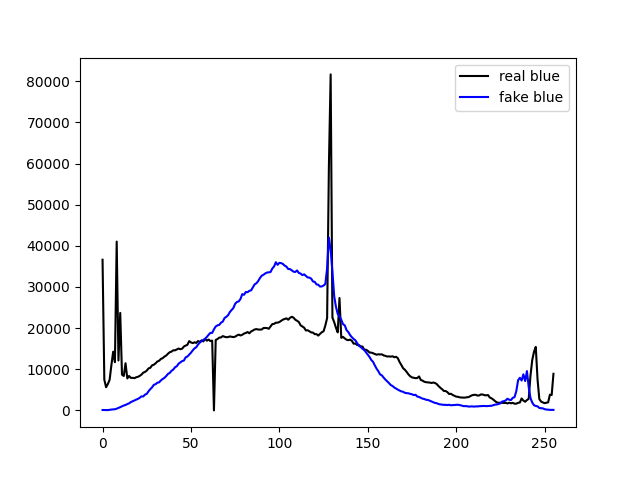
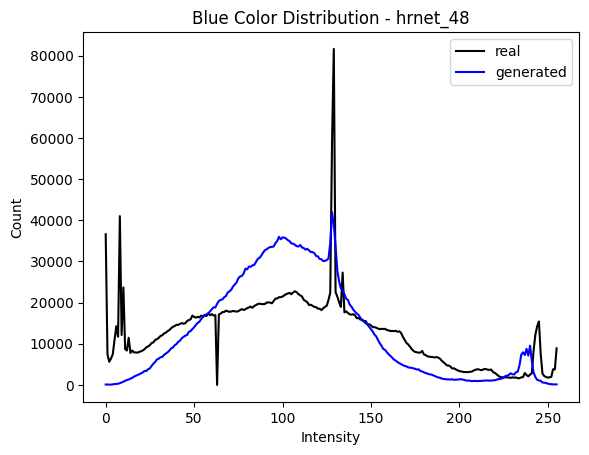
Modify report with information noted from poster presentation

Changed region(s): [[0.0, 0.0, 0.9779, 0.9846], [0.3056, 0.0308, 0.6418, 0.0615], [0.9168, 0.8923, 0.9474, 0.9538]]

diff --git a/intensity_and_rgb.py b/intensity_and_rgb.py
@@ -1,75 +1,104 @@
-import numpy as np
+from eval_batch import EXP_MODEL_PAIRS
+from enum import Enum, IntEnum
 from PIL import Image
-
-import os
-import sys
-import torchvision.transforms as transforms
-import os
-import numpy as np
+from scipy.stats import kstest
+from os import listdir, path
 from tqdm import tqdm
-
-
-
+import numpy as np
 import matplotlib.pyplot as plt
 
+class Colors(IntEnum):
+    RED     = 0
+    GREEN   = 1
+    BLUE    = 2
 
-modelName = sys.argv[1]
+    __str__ = Enum.__str__
 
-path = 'results/{parent}/test_latest/images'.format(parent=modelName)
-files = os.listdir(path)
-real = []
-fake = []
-orig = []
-r_real = np.zeros((256,))
-g_real = np.zeros((256,))
-b_real = np.zeros((256,))
+def load_rgb_arrays(path: str):
+    files = listdir(path)
+    real = []
+    fake = []
+    orig = []
+    r_real = np.zeros((256,))
+    g_real = np.zeros((256,))
+    b_real = np.zeros((256,))
+    r_fake = np.zeros((256,))
+    g_fake = np.zeros((256,))
+    b_fake = np.zeros((256,))
 
-r_fake = np.zeros((256,))
-g_fake = np.zeros((256,))
-b_fake = np.zeros((256,))
-for file in files:
-    if file.find("real_B")>=0:
-        
-        # transform = transforms.PILToTensor()
-        # Convert the PIL image to Torch tensor
-        im = Image.open('{path}/{file}'.format(path=path, file = file)).convert('RGB')
-        for x in range(im.width):
-            for y in range(im.height):
-                r_real[im.getpixel((x,y))[0]]+=1
-                g_real[im.getpixel((x,y))[1]]+=1
-                b_real[im.getpixel((x,y))[2]]+=1
-  
-                    
-        real.append(np.array(im.convert('L')).mean())
-    elif file.find("fake_B")>=0:
-        im = Image.open('{path}/{file}'.format(path=path, file = file)).convert('RGB')
-        for x in range(im.width):
-            for y in range(im.height):
-                r_fake[im.getpixel((x,y))[0]]+=1
-                g_fake[im.getpixel((x,y))[1]]+=1
-                b_fake[im.getpixel((x,y))[2]]+=1
-        fake.append(np.array(im.convert('L')).mean())
-    else:
-        im = Image.open('{path}/{file}'.format(path=path, file = file)).convert('L')
-        orig.append(np.array(im.convert('L')))
-print("REAL AVERAGE INTENSITY: ", sum(real)/len(real))
-print("FAKE AVERAGE INTENSITY: ", sum(fake)/len(fake))
-x = np.arange(0,256,1)
+    for file in files:
+        if file.find("real_B")>=0:
+            # Convert the PIL image to Torch tensor
+            im = Image.open('{path}/{file}'.format(path=path, file = file)).convert('RGB')
+            for x in range(im.width):
+                for y in range(im.height):
+                    r_real[im.getpixel((x,y))[0]]+=1
+                    g_real[im.getpixel((x,y))[1]]+=1
+                    b_real[im.getpixel((x,y))[2]]+=1
+            real.append(np.array(im.convert('L')).mean())
+        elif file.find("fake_B")>=0:
+            im = Image.open('{path}/{file}'.format(path=path, file = file)).convert('RGB')
+            for x in range(im.width):
+                for y in range(im.height):
+                    r_fake[im.getpixel((x,y))[0]]+=1
+                    g_fake[im.getpixel((x,y))[1]]+=1
+                    b_fake[im.getpixel((x,y))[2]]+=1
+            fake.append(np.array(im.convert('L')).mean())
+        else:
+            im = Image.open('{path}/{file}'.format(path=path, file = file)).convert('L')
+            orig.append(np.array(im.convert('L')))
+    return (r_real, g_real, b_real), (r_fake, g_fake, b_fake)
 
-fig, ax = plt.subplots()
-line1, = ax.plot(x, r_real, color="black", label='real red')
-line2, = ax.plot(x, r_fake, color="red", label='fake red')
-ax.legend(handles=[line1, line2])
-fig.savefig('red_{model}.png'.format(model = modelName))
+def plot_rgb_values(r_real, g_real, b_real,
+                    r_fake, g_fake, b_fake,
+                    experiment_name, model_name):
+    x = np.arange(0, 256, 1)
 
-fig, ax = plt.subplots()
-line1, = ax.plot(x, b_real, color="black", label='real blue')
-line2, = ax.plot(x, b_fake, color="blue", label='fake blue')
-ax.legend(handles=[line1, line2])
-fig.savefig('blue_{model}.png'.format(model = modelName))
+    fig, ax = plt.subplots()
+    line1, = ax.plot(x, r_real, color="black", label='real')
+    line2, = ax.plot(x, r_fake, color="red", label='generated')
+    ax.legend(handles=[line1, line2])
+    plt.title(f"Red Color Distribution - {model_name}")
+    plt.xlabel("Intensity")
+    plt.ylabel("Count")
+    fig.savefig(f'red_{experiment_name}.png')
 
-fig, ax = plt.subplots()
-line1, = ax.plot(x, g_real, color="black", label='real green')
-line2, = ax.plot(x, g_fake, color="green", label='fake green')
-ax.legend(handles=[line1, line2])
-fig.savefig('green_{model}.png'.format(model = modelName))
+    fig, ax = plt.subplots()
+    line1, = ax.plot(x, b_real, color="black", label='real')
+    line2, = ax.plot(x, b_fake, color="blue", label='generated')
+    ax.legend(handles=[line1, line2])
+    plt.title(f"Blue Color Distribution - {model_name}")
+    plt.xlabel("Intensity")
+    plt.ylabel("Count")
+    fig.savefig(f'blue_{experiment_name}.png', bbox_inches='tight')
+
+    fig, ax = plt.subplots()
+    line1, = ax.plot(x, g_real, color="black", label='real')
+    line2, = ax.plot(x, g_fake, color="green", label='generated')
+    ax.legend(handles=[line1, line2])
+    plt.title(f"Green Color Distribution - {model_name}")
+    plt.xlabel("Intensity")
+    plt.ylabel("Count")
+    fig.savefig(f'green_{experiment_name}.png', bbox_inches='tight')
+
+def ks_test(sampled, ground_truth):
+    ks_res = kstest(sampled, ground_truth)
+    return f"Test statistic is {ks_res.statistic} with p-value {ks_res.pvalue}"
+
+if __name__ == "__main__":
+    for experiment, model in tqdm(EXP_MODEL_PAIRS):
+        print(f"===== Processing model {model} =====")
+        path = f'results/{experiment}/test_latest/images'
+
+        print("Computing RGB values...")
+        reals, fakes = load_rgb_arrays(path)
+
+        print("Plotting values...")
+        plot_rgb_values(reals[Colors.RED], reals[Colors.GREEN], reals[Colors.BLUE],
+                        fakes[Colors.RED], fakes[Colors.GREEN], fakes[Colors.BLUE],
+                        experiment, model)
+
+        print("KS Test results:")
+        for channel in Colors:
+            ks_res = ks_test(fakes[channel], reals[channel])
+            print(f"{channel}: {ks_res}")

diff --git a/loss_over_time.py b/loss_over_time.py
@@ -1,57 +1,57 @@
-import sys
-import os
+from eval_batch import EXP_MODEL_PAIRS
+from tqdm import tqdm
 import numpy as np
 import re
-
-
 import matplotlib.pyplot as plt
 
+if __name__ == "__main__":
+    for experiment, model in tqdm(EXP_MODEL_PAIRS):
+        path = f'checkpoints/{experiment}/loss_log.txt'
+        epoch   = 0
+        g_gan   = []
+        g_l1    = []
+        d_real  = []
+        d_fake  = []
+        with open(path) as fp:
+            tmp_g_gan = []
+            tmp_g_l1 = []
+            tmp_d_real = []
+            tmp_d_fake = []
+            for line in fp:
+                try:
+                    epoch_curr = int(re.search('epoch: (.+?),', line).group(1))
+                    tmp_g_gan.append(float(re.search('G_GAN: (.+?) G_L1:', line).group(1)))
+                    tmp_g_l1.append(float(re.search('G_L1: (.+?) D_real:', line).group(1)))
+                    tmp_d_real.append(float(re.search('D_real: (.+?) D_fake:', line).group(1)))
+                    tmp_d_fake.append(float(re.search('D_fake: (.+?)\n', line).group(1)))
+                    if epoch_curr != epoch:
+                        epoch = epoch_curr
+                        g_gan.append(sum(tmp_g_gan)/len(tmp_g_gan))
+                        tmp_g_gan = []
+                        g_l1.append(sum(tmp_g_l1)/len(tmp_g_l1))
+                        tmp_g_l1 = []
+                        d_real.append(sum(tmp_d_real)/len(tmp_d_real))
+                        tmp_d_real = []
+                        d_fake.append(sum(tmp_d_fake)/len(tmp_d_fake))
+                        tmp_d_fake = []
+                except AttributeError:
+                    continue
+        x = np.arange(0, 200, 1)
 
-modelName = sys.argv[1]
+        fig, ax = plt.subplots()
+        line1, = ax.plot(x, g_gan, color="black", label='GAN')
+        line2, = ax.plot(x, g_l1, color="blue", label='L1')
+        ax.legend(handles=[line1, line2])
+        plt.title(f"Generator Losses - {model}")
+        plt.xlabel("Epoch")
+        plt.ylabel("Value")
+        fig.savefig(f'G_{experiment}.png')
 
-path = 'checkpoints/{parent}/loss_log.txt'.format(parent=modelName)
-epoch = 0
-g_gan = []
-g_l1 = []
-d_real = []
-d_fake = []
-with open(path) as fp:
-    tmp_g_gan = []
-    tmp_g_l1 = []
-    tmp_d_real = []
-    tmp_d_fake = []
-    for line in fp:
-
-        try:
-            epoch_curr = int(re.search('epoch: (.+?),', line).group(1))
-            tmp_g_gan.append(float(re.search('G_GAN: (.+?) G_L1:', line).group(1)))
-            tmp_g_l1.append(float(re.search('G_L1: (.+?) D_real:', line).group(1)))
-            tmp_d_real.append(float(re.search('D_real: (.+?) D_fake:', line).group(1)))
-            tmp_d_fake.append(float(re.search('D_fake: (.+?)\n', line).group(1)))
-            if epoch_curr != epoch:
-                epoch = epoch_curr
-                g_gan.append(sum(tmp_g_gan)/len(tmp_g_gan))
-                print(tmp_g_gan)
-                tmp_g_gan = []
-                g_l1.append(sum(tmp_g_l1)/len(tmp_g_l1))
-                tmp_g_l1 = []
-                d_real.append(sum(tmp_d_real)/len(tmp_d_real))
-                tmp_d_real = []
-                d_fake.append(sum(tmp_d_fake)/len(tmp_d_fake))
-                tmp_d_fake = []
-
-        except AttributeError:
-            continue
-x = np.arange(0,200,1)
-
-fig, ax = plt.subplots()
-line1, = ax.plot(x, g_gan, color="black", label='G_GAN')
-line2, = ax.plot(x, g_l1, color="blue", label='G_L1')
-ax.legend(handles=[line1, line2])
-fig.savefig('GAN_{model}.png'.format(model = modelName))
-
-fig, ax = plt.subplots()
-line1, = ax.plot(x, d_real, color="black", label='D_REAL')
-line2, = ax.plot(x, d_fake, color="blue", label='D_FAKE')
-ax.legend(handles=[line1, line2])
-fig.savefig('D_{model}.png'.format(model = modelName))
+        fig, ax = plt.subplots()
+        line1, = ax.plot(x, d_real, color="black", label='D_REAL')
+        line2, = ax.plot(x, d_fake, color="blue", label='D_FAKE')
+        ax.legend(handles=[line1, line2])
+        plt.title(f"Discriminator Losses - {model}")
+        plt.xlabel("Epoch")
+        plt.ylabel("Value")
+        fig.savefig(f'D_{experiment}.png')

diff --git a/README.md b/README.md
@@ -1,4 +1,4 @@
-# Reproducibility Project Blog
+# Performing Brain Transplants on Pix2Pix
 ## Group Members
 - Nikolay Blagoev (4998901 - <N.Blagoev@student.tudelft.nl>)
 - William Narchi  (5046122 - <w.narchi-1@student.tudelft.nl>)
@@ -8,9 +8,9 @@ Image-to-Image Translation with Conditional Adversarial Networks.<br>
 [Phillip Isola](https://people.eecs.berkeley.edu/~isola), [Jun-Yan Zhu](https://www.cs.cmu.edu/~junyanz/), [Tinghui Zhou](https://people.eecs.berkeley.edu/~tinghuiz), [Alexei A. Efros](https://people.eecs.berkeley.edu/~efros). In CVPR 2017. [[Bibtex]](https://www.cs.cmu.edu/~junyanz/projects/pix2pix/pix2pix.bib)
 
 ## Introduction
-Conditional adversarial networks are a popular architecture choice for generative models. The Pix2Pix paper examined by this reproducibility project presents a general **CGAN (Conditional General Adversarial Network)** that can be adapted for *any* image-to-image translation task. Put simply, given labelled samples in two related domains $A$ and $B$, a mapping from $A$ to $B$ (or vice versa) can be learned by the network [1].
+Conditional adversarial networks are a popular architecture choice for generative models. The Pix2Pix paper examined by this reproducibility project presents a general **CGAN (Conditional Generative Adversarial Network)** that can be adapted for *any* image-to-image translation task. Put simply, given labelled samples in two related domains $A$ and $B$, a mapping from $A$ to $B$ (or vice versa) can be learned by the network [1].
 
-The architecture of the network consists of a generator network and a discriminator network working against each other [1]. The generator learns to generate plausible fake images in the target range that correspond to the source domain and the discriminator learns to differentiate real and fake (generator-created) images.
+The architecture of the network consists of a generator network and a discriminator network working against each other [1]. The generator learns to generate plausible fake images in the target range that correspond to the source domain and the discriminator learns to differentiate real and fake (generator-created) images. Being a CGAN, the generator is provided as input both a sample from the domain and its corresponding class, hence it attempts to learn the distribution of the data conditioned on the corresponding label [11].
 
 The Pix2Pix paper utilises a modified variant of the [UNet](https://arxiv.org/abs/1505.04597) architecture as the generator [1], [2]. However, in principle, any network that performs [semantic segmentation](https://www.cs.toronto.edu/~tingwuwang/semantic_segmentation.pdf) can be used as the generator in the CGAN architecture. This project aims to compare the viability of popular semantic segmentation networks as replacements for the stock UNet presented in the original paper.
 
@@ -40,7 +40,7 @@ Following the architecture described in the paper (convolution → batch normali
 This happened regardless of the exact model used as the generator. If the last ReLU activation layer was removed, patchy artifacts were produced (even at 200 epochs):
 
 <br>
-<img src='imgs/artifcats.png' width=384>
+<img src='imgs/artifacts.png' width=384>
 <br>
 
 The original implementation adds a Tanh activation function at the outermost upscaling layer:
@@ -68,6 +68,7 @@ All generators were able to recreate some semblance of structure in the fake (or
 Visually, PSPNet gave the worst results; the final result is blurry and black patches can be seen in the same spot on all images. The second worst was DeepLabV3+; a more clear structure can be seen in it, however some artifacts exist (bottom row is best seen) and the images are quite blurry. HRNet gave decent results, however they still look quite blurry. Surprisingly, the LinkNet produced a very clear and coherent image for the first input. The best performing were the two UNets, followed closely by LinkNet and the 9-block ResNet, though for the second row some artifacts can be seen (quite noticeable with UNet++ and 9-block Resnet, in addition to some with UNet at the bottom part of the building).
 
 ## Quantitative Evaluation
+
 ### FID Scores
 The **Frechet Inception Distance (FID)** is used to evaluate the quality of generated images. It compares the excitation of a feature extractor of the ground truth and generated images to produce a single scalar score, where lower means better. [5] Since the release of the paper in 2017, it has become a de facto standard for evaluating the performance of generative networks [4]. 
 
@@ -77,15 +78,46 @@ For the feature extractor, we chose the InceptionV3 model [6]. A batch of 40 pre
 |-------------------|---------|
 | UNet (default)    | 218.483 |
 | ResNet (9 blocks) | 226.530 |
+| LinkNet           | 232.488 |
 | UNet++            | 244.796 |
+| HRNet             | 297.469 |
 | DeepLabV3+        | 318.598 |
 | PSPNet            | 416.964 |
-| LinkNet           | 232.488 |
-| HRNet             | 297.469 |
 
 PSPNet performed the worst (as evident by the results). Surprisingly, LinkNet presented a better result than UNet++. The stock UNet variant used in the original paper performed the best, but we attribute this to hyperparameter tuning, which we were not able to perform due to limited training time.
 
 ### Performance Over Epochs
+#### Losses
+Provided are the values of the loss terms for both the generator and discriminator plotted against training epochs for all tested generators. All generators exhibit a decrease in L1 loss over time. As for GAN loss, it remains fairly stationary for the more performant generators, while increasing steadily for the worse performing ones. Similarly, the discriminator's losses seem to fluctuate with the more performant generators whereas it remains fairly stationary for the worse performing ones, demonstrating the performant generators' abilities to fool the discriminator more consistently than the worse performing ones.
+
+##### UNet
+<img src='imgs/G_pix2pixunet256.png' width=384>
+<img src='imgs/D_pix2pixunet256.png' width=384>
+
+##### ResNet
+<img src='imgs/G_pix2pixresnet9blocks.png' width=384>
+<img src='imgs/D_pix2pixresnet9blocks.png' width=384>
+
+##### UNet++
+<img src='imgs/G_pix2pixunetppnew.png' width=384>
+<img src='imgs/D_pix2pixunetppnew.png' width=384>
+
+##### DeepLabV3+
+<img src='imgs/G_pix2pixdeeplabv3plus.png' width=384>
+<img src='imgs/D_pix2pixdeeplabv3plus.png' width=384>
+
+##### PSPNet
+<img src='imgs/G_pix2pixpspnetnew.png' width=384>
+<img src='imgs/D_pix2pixpspnetnew.png' width=384>
+
+##### LinkNet
+<img src='imgs/G_pix2pixlinknet.png' width=384>
+<img src='imgs/D_pix2pixlinknet.png' width=384>
+
+##### HRNet
+<img src='imgs/G_pix2pixhrnet48.png' width=384>
+<img src='imgs/D_pix2pixhrnet48.png' width=384>
+
 #### FID Scores
 In order to better understand how the generators' performance evolves over time, we provide graphs of FID scores plotted against training epochs for all tested generators.
 
@@ -197,6 +229,8 @@ Also, as mentioned before, we were not able to perform hyperparameter tuning, wh
 [9] P. Bizopoulos, N. Vretos, and P. Daras, ‘Comprehensive Comparison of Deep Learning Models for Lung and COVID-19 Lesion Segmentation in CT scans’, arXiv [eess.IV]. 2022.
 
 [10] V. A. Natarajan, M. Sunil Kumar, R. Patan, S. Kallam, and M. Y. Noor Mohamed, ‘Segmentation of Nuclei in Histopathology images using Fully Convolutional Deep Neural Architecture’, in 2020 International Conference on Computing and Information Technology (ICCIT-1441), 2020, pp. 1–7.
+
+[11] I.J. Goodfellow, J. Pouget-Abadie, M. Mirza, B. Xu, D. Warde-Farley, S. Ozair, A. Courville, Y. Bengio, Generative Adversarial Networks, 2014.
 
 <!------------------------------------------------------------------>
 # Original Repository README
